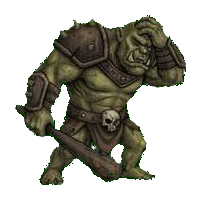
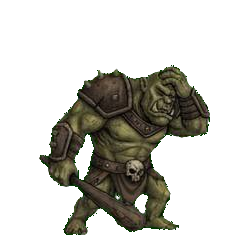
Normalize Orc Warrior motion frames

diff --git a/test_v2_motion.js b/test_v2_motion.js
@@ -57,12 +57,13 @@ for (const [motion, count] of Object.entries({ attack: 5, hit: 4, death: 5 })) {
     assert(fs.existsSync(path.join(root, relative)), `Goblin Rider frame is missing: ${relative}`);
   }
 }
-for (const [motion, count] of Object.entries({ attack: 5, hit: 4, death: 6 })) {
+for (const [motion, count] of Object.entries({ attack: 5, hit: 4, death: 5 })) {
   for (let index = 1; index <= count; index += 1) {
     const relative = `art/v2-style/animation-test-frames/orc-warrior/${motion}-${String(index).padStart(2, "0")}.png`;
     assert(fs.existsSync(path.join(root, relative)), `Orc Warrior frame is missing: ${relative}`);
   }
 }
+assert(!fs.existsSync(path.join(root, "art/v2-style/animation-test-frames/orc-warrior/death-06.png")), "Orc Warrior death frame 6 must not be used.");
 for (const [motion, count] of Object.entries({ attack: 5, hit: 4, death: 5 })) {
   for (let index = 1; index <= count; index += 1) {
     const relative = `art/v2-style/animation-test-frames/skeleton-spear/${motion}-${String(index).padStart(2, "0")}.png`;
@@ -89,7 +90,7 @@ assert(fs.existsSync(path.join(root, "art/v2-style/animation-sheets/green-raw/an
 assert(fs.existsSync(path.join(root, "art/v2-style/animation-sheets/green-raw/stone-golem-animation-sheet.jpg")), "New raw Stone Golem sheet is missing.");
 assert(fs.existsSync(path.join(root, "art/v2-style/animation-sheets/green-raw/goblin-rider-animation-sheet.jpg")), "New raw Goblin Rider sheet is missing.");
 assert(fs.existsSync(path.join(root, "art/v2-style/animation-sheets/green-raw/orc-warrior-animation-sheet.jpg")), "New raw Orc Warrior sheet is missing.");
-assert(serviceWorker.includes("necromancer-expedition-v75"), "Service worker cache version was not bumped.");
+assert(serviceWorker.includes("necromancer-expedition-v76"), "Service worker cache version was not bumped.");
 assert(!serviceWorker.includes("animation-sheets/uploaded-raw"), "Deleted legacy animation sheets remain in offline cache.");
 assert(!serviceWorker.includes("animation-test-crops"), "Deleted comparison crops remain in offline cache.");
 for (const match of serviceWorker.matchAll(/^\s*"(\.\/[^"?]+)(?:\?[^\"]*)?"[,]?$/gm)) {

diff --git a/service-worker.js b/service-worker.js
@@ -1,11 +1,11 @@
-const CACHE_NAME = "necromancer-expedition-v75";
+const CACHE_NAME = "necromancer-expedition-v76";
 const APP_SHELL = [
   "./",
   "./index.html",
   "./v2.html",
   "./v2-animation-practice.html",
   "./v2-animation-practice.css?v=5",
-  "./v2-animation-practice.js?v=12",
+  "./v2-animation-practice.js?v=13",
   "./v2-battle.css?v=7",
   "./v2-motion.js?v=5",
   "./v2-battle.js?v=11",
@@ -67,7 +67,7 @@ Object.entries({ attack: 5, hit: 4, death: 5 }).forEach(([motion, count]) => {
     APP_SHELL.push(`./art/v2-style/animation-test-frames/goblin-rider/${motion}-${String(index).padStart(2, "0")}.png`);
   }
 });
-Object.entries({ attack: 5, hit: 4, death: 6 }).forEach(([motion, count]) => {
+Object.entries({ attack: 5, hit: 4, death: 5 }).forEach(([motion, count]) => {
   for (let index = 1; index <= count; index += 1) {
     APP_SHELL.push(`./art/v2-style/animation-test-frames/orc-warrior/${motion}-${String(index).padStart(2, "0")}.png`);
   }

diff --git a/v2-animation-practice.js b/v2-animation-practice.js
@@ -11,7 +11,7 @@
     "ancient-treant": { name: "고대 트렌트", root: "art/v2-style/animation-test-frames/ancient-treant/", counts: { attack: 5, hit: 4, death: 6 } },
     "stone-golem": { name: "암석 골렘", root: "art/v2-style/animation-test-frames/stone-golem/", counts: { attack: 5, hit: 4, death: 5 } },
     "goblin-rider": { name: "고블린 라이더", root: "art/v2-style/animation-test-frames/goblin-rider/", counts: { attack: 5, hit: 4, death: 5 } },
-    "orc-warrior": { name: "오크 전사", root: "art/v2-style/animation-test-frames/orc-warrior/", counts: { attack: 5, hit: 4, death: 6 } }
+    "orc-warrior": { name: "오크 전사", root: "art/v2-style/animation-test-frames/orc-warrior/", counts: { attack: 5, hit: 4, death: 5 } }
   });
   const FRAME_MS = Object.freeze({ attack: 145, hit: 135, death: 175 });
   const MOTION_LABELS = Object.freeze({ attack: "공격", hit: "피격", death: "사망" });

diff --git a/v2-animation-practice.html b/v2-animation-practice.html
@@ -46,6 +46,6 @@
       <p>본게임에는 아직 적용하지 않은 유닛별 검수용 테스트입니다.</p>
     </section>
   </main>
-  <script src="v2-animation-practice.js?v=12"></script>
+  <script src="v2-animation-practice.js?v=13"></script>
 </body>
 </html>
